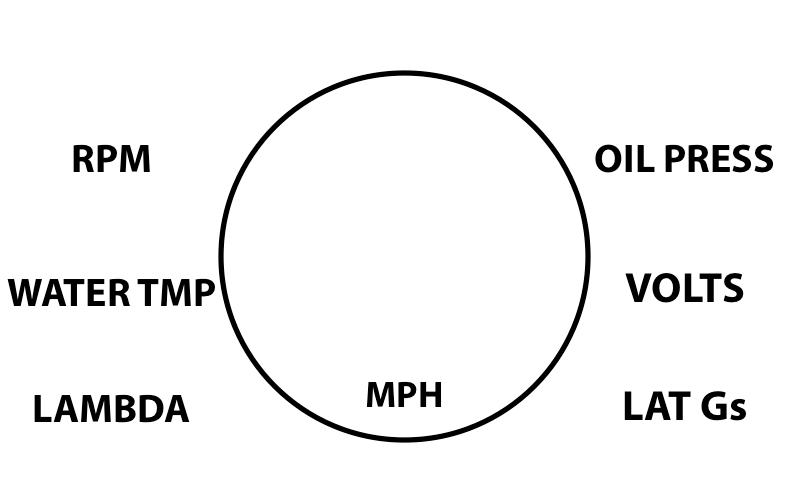
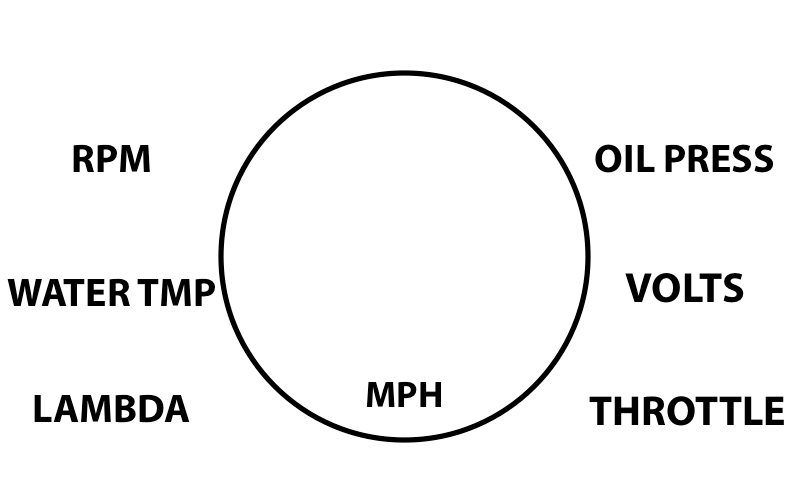
Added TPS, stenciled Gear Position math

Changed region(s): [[0.7188, 0.8125, 1.0, 0.9062]]

diff --git a/hardware/master.py b/hardware/master.py
@@ -50,12 +50,12 @@ class Master:
         self.serial_port = s.Serial('/dev/ttyAMA3', 115200, timeout=1) # Serial Baud rate from Arduino is 115200
         print("Got serial from Arduino")
         
-        self.parse_data("l700:100.0\n")
-        self.parse_data("h700:134.2\n")
-        self.parse_data("l701:13.4\n") 
-        self.parse_data("h701:0.98\n")
-        self.parse_data("l702:0\n") # Spec swithced. RPM is now 702l (not reflected in all code)
-        self.parse_data("h702:4.4\n") #accx
+        self.parse_data("l700:100.0\n") # ctmp
+        self.parse_data("h700:134.2\n") # oilp (pascals)
+        self.parse_data("l701:13.4\n") # vbat
+        self.parse_data("h701:0.98\n") # lambda
+        self.parse_data("l702:0\n") # RPM 
+        self.parse_data("h702:4.4\n") # TPS
         self.parse_data("l703:95\n") # lspd
         self.parse_data("h703:0.87\n") # rspd
         self.parse_data("l704:9.814\n") #accy
@@ -84,6 +84,9 @@ class Master:
             time.sleep(0.01)
 
     def parse_data(self, data_str):
+        last_rpm = 0.
+        last_rspd = 0.
+
         try: 
             data_str = data_str.strip()
             # print("Parsing: '{}'".format(data_str))
@@ -112,16 +115,19 @@ class Master:
                 print("Sending {} to lspd".format(value))
                 os.write(self.fifo, "lspd:" + str(value) + "\n")
             elif(key == "h703:"):
-                value = int(round(value, 0))
-                os.write(self.fifo, "rspd:" + str(value) + "\n")
+                value = round(value, 0)
+                last_rspd = value
+                os.write(self.fifo, "rspd:" + str(int(value)) + "\n")
+                self.calculate_gear_position(last_rspd, last_rpm)
             elif(key == "l702:"):
                 value = value / 10
+                last_rpm = value
                 os.write(self.fifo, "rpm_:" + str(value) + "\n")
                 # print("Sending {} to leds".format(value))
                 self.l.displayRPM(value)
             elif(key == "h702:"):
                 value = round((value / p.GRAVITY), 2)
-                os.write(self.fifo, "accx:" + str(value) + "G\n")
+                os.write(self.fifo, "tps_:" + str(value) + "\n")
             elif(key == "l704:"):
                 value = round((value / p.GRAVITY), 2)
                 os.write(self.fifo, "accy:" + str(value) + "G\n")
@@ -134,7 +140,10 @@ class Master:
 
         except Exception:
             traceback.print_exc(file=sys.stdout)
-            
+
+        # Translate the ratio between wheelspeed and RPM, then send a guess at gear position    
+    def calculate_gear_position(self, wheelspeed, rpm):
+        pass
 
     def shutdown(self):
         print("Shutdown heard...exiting")

diff --git a/display/mainwidget.cpp b/display/mainwidget.cpp
@@ -305,8 +305,8 @@ void TMainWidget::onKeepAlive() {
             rspD = value;
         } else if (strncmp(str1, "rpm_", 4) == 0) {
             rpM_ = value;
-        } else if (strncmp(str1, "accx", 4) == 0) {
-            accX = value;
+        } else if (strncmp(str1, "tps_", 4) == 0) {
+            tpS_ = value;
         } else if (strncmp(str1, "accy", 4) == 0) {
             accY = value;
         } else if (strncmp(str1, "accz", 4) == 0) {
@@ -363,13 +363,13 @@ void TMainWidget::paintEvent(QPaintEvent *)
     p.drawText(sideBorder,blockHeight*2+15,width()-fieldWidth+50,blockHeight,Qt::AlignRight | Qt::AlignVCenter,oilP);
 
     // Voltage in 2nd right position
-    // p.drawText(sideBorder,blockHeight*5+15,width()-fieldWidth+50,blockHeight,Qt::AlignRight | Qt::AlignVCenter,vbaT);
+    p.drawText(sideBorder,blockHeight*5+15,width()-fieldWidth+50,blockHeight,Qt::AlignRight | Qt::AlignVCenter,vbaT);
     
-    p.drawText(sideBorder,blockHeight*5+15,width()-fieldWidth+50,blockHeight,Qt::AlignRight | Qt::AlignVCenter,accX);
-    p.drawText(sideBorder,blockHeight*8+20,width()-fieldWidth+50,blockHeight,Qt::AlignRight | Qt::AlignVCenter,accY);
+    // p.drawText(sideBorder,blockHeight*5+15,width()-fieldWidth+50,blockHeight,Qt::AlignRight | Qt::AlignVCenter,tpS_);
+    p.drawText(sideBorder,blockHeight*8+20,width()-fieldWidth+50,blockHeight,Qt::AlignRight | Qt::AlignVCenter,tpS_);
 
     p.setFont(QFont("Arial",150));
-    p.drawText(220,blockHeight*3,360,300,Qt::AlignCenter | Qt::AlignVCenter,lspD);
+    p.drawText(220,blockHeight*3,360,300,Qt::AlignCenter | Qt::AlignVCenter,rspD);
 
 
     if (1) {

diff --git a/display/mainwidget.h b/display/mainwidget.h
@@ -57,7 +57,7 @@ private:
     QString lspD;
     QString rspD;
     QString rpM_;
-    QString accX;
+    QString tpS_;
     QString accY;
     QString accZ;
     QPixmap bg;
